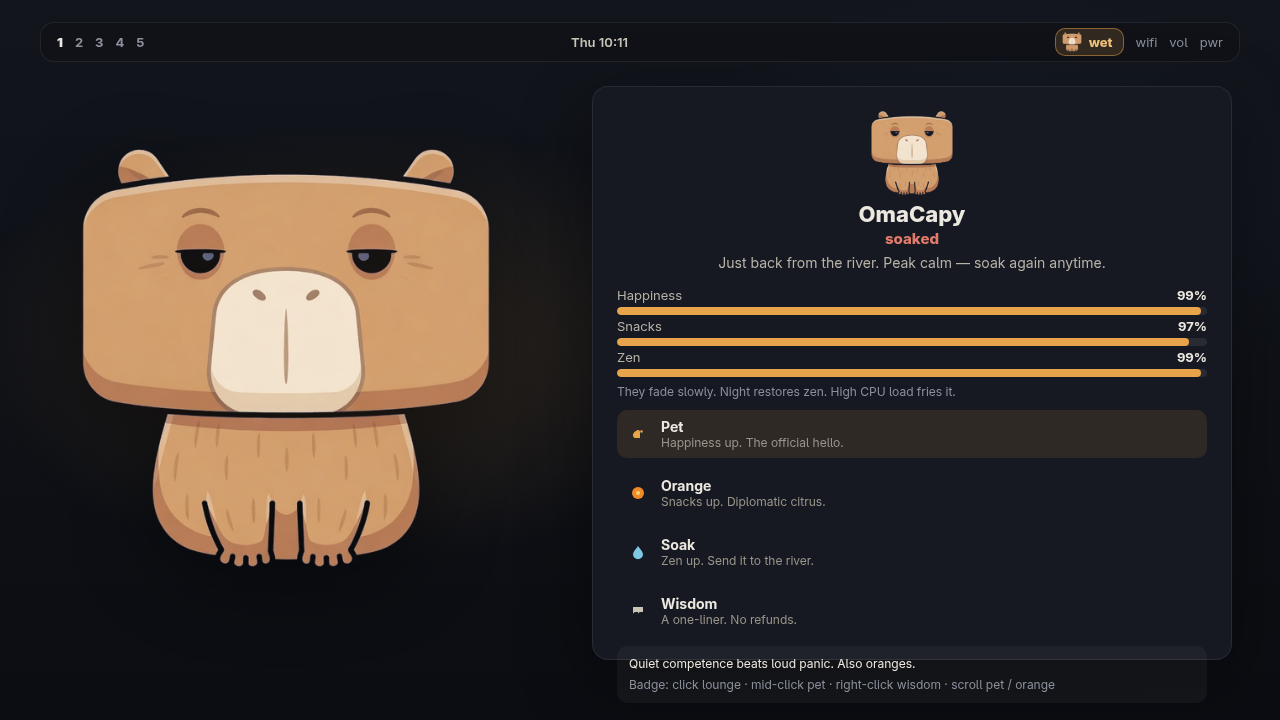
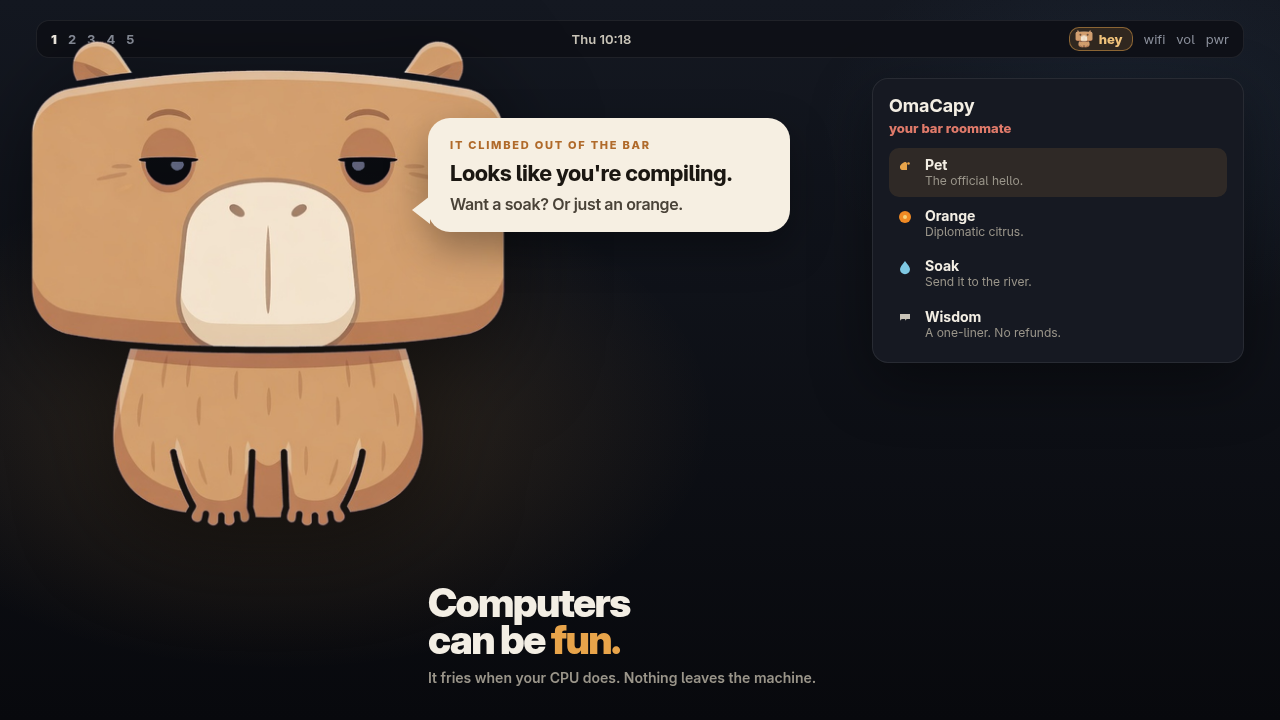
Present OmaCapy as a Clippy-style roommate on the listing
The marketplace page is the first impression. Lead with
"Computers can be fun," a speech bubble from the bar, and the
four actions — mascot behavior stays for a later pass.

diff --git a/README.md b/README.md
@@ -1,12 +1,12 @@
 # OmaCapy
 
-![OmaCapy lounge](preview.png)
+![OmaCapy](preview.png)
 
-A **capybara roommate** for your [Omarchy](https://omarchy.org/) bar.
+**Computers can be fun.**
 
-Click the badge to open the lounge. Pet it. Feed it oranges. Dunk it in an imaginary river. Collect unserious wisdom. When your machine fries, the rodent looks fried too.
+A capybara roommate for your [Omarchy](https://omarchy.org/) bar. It climbs out of the badge like an old office assistant: looks at the compile, offers a soak, believes in oranges.
 
-Because computers should be useful **and** a little ridiculous.
+Click the badge. Pet it. Feed it. Dunk it in an imaginary river. Collect unserious wisdom. When the machine fries, the rodent looks fried too.
 
 ## What you do
 
